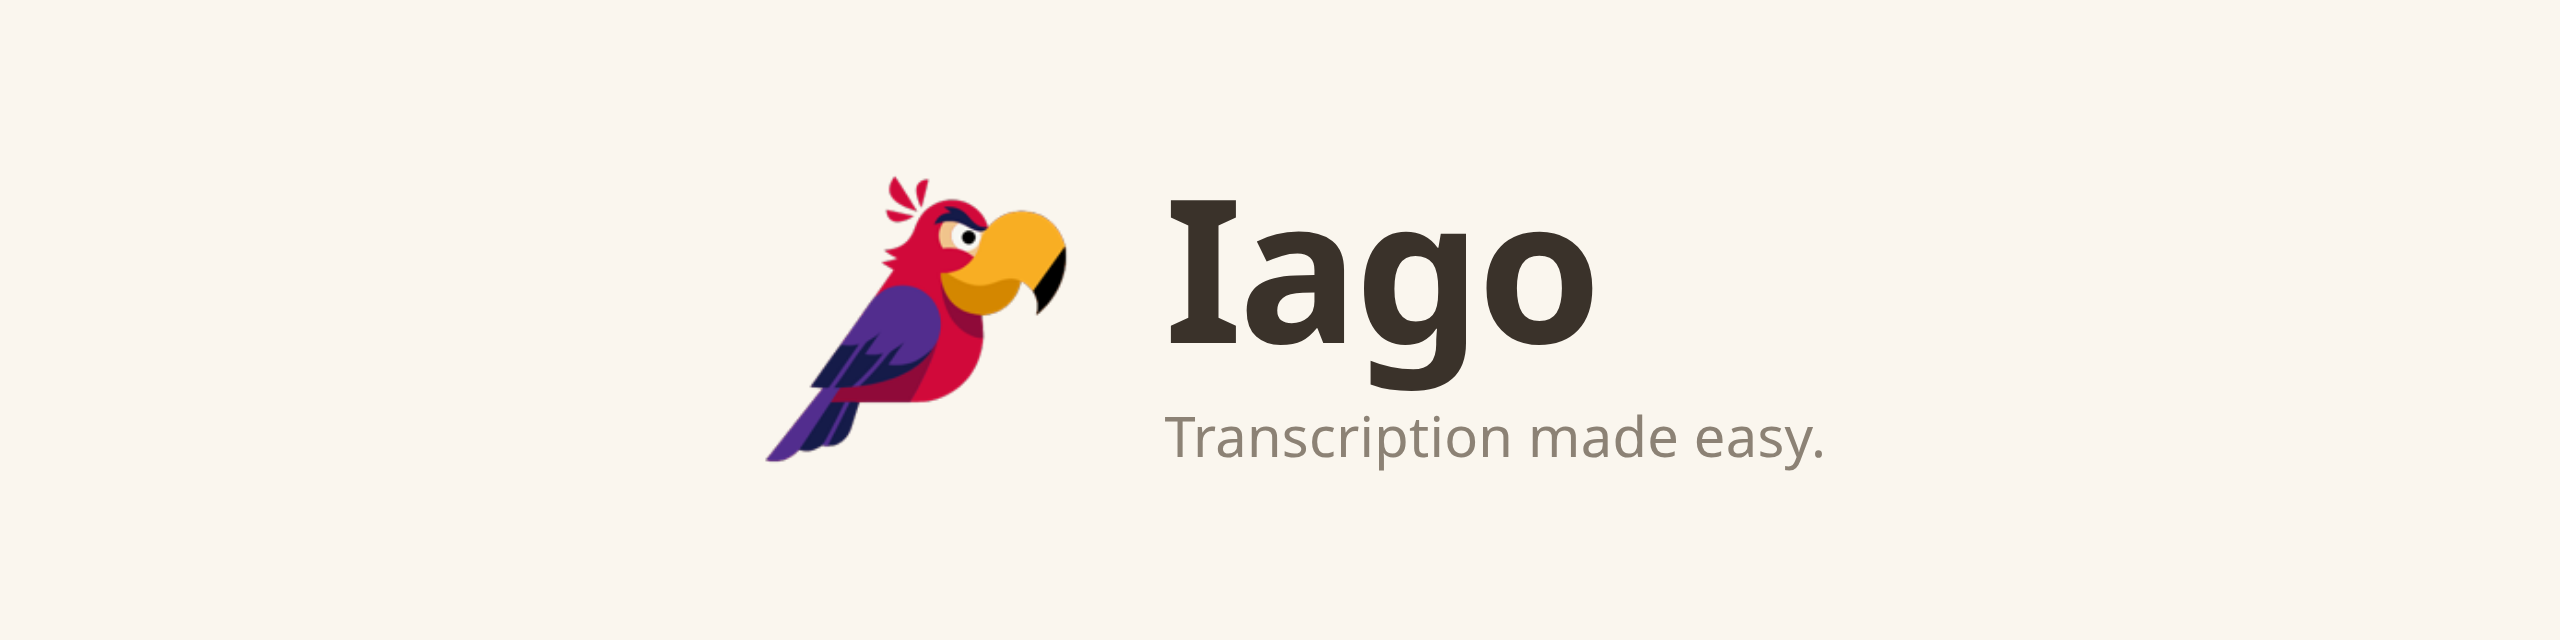
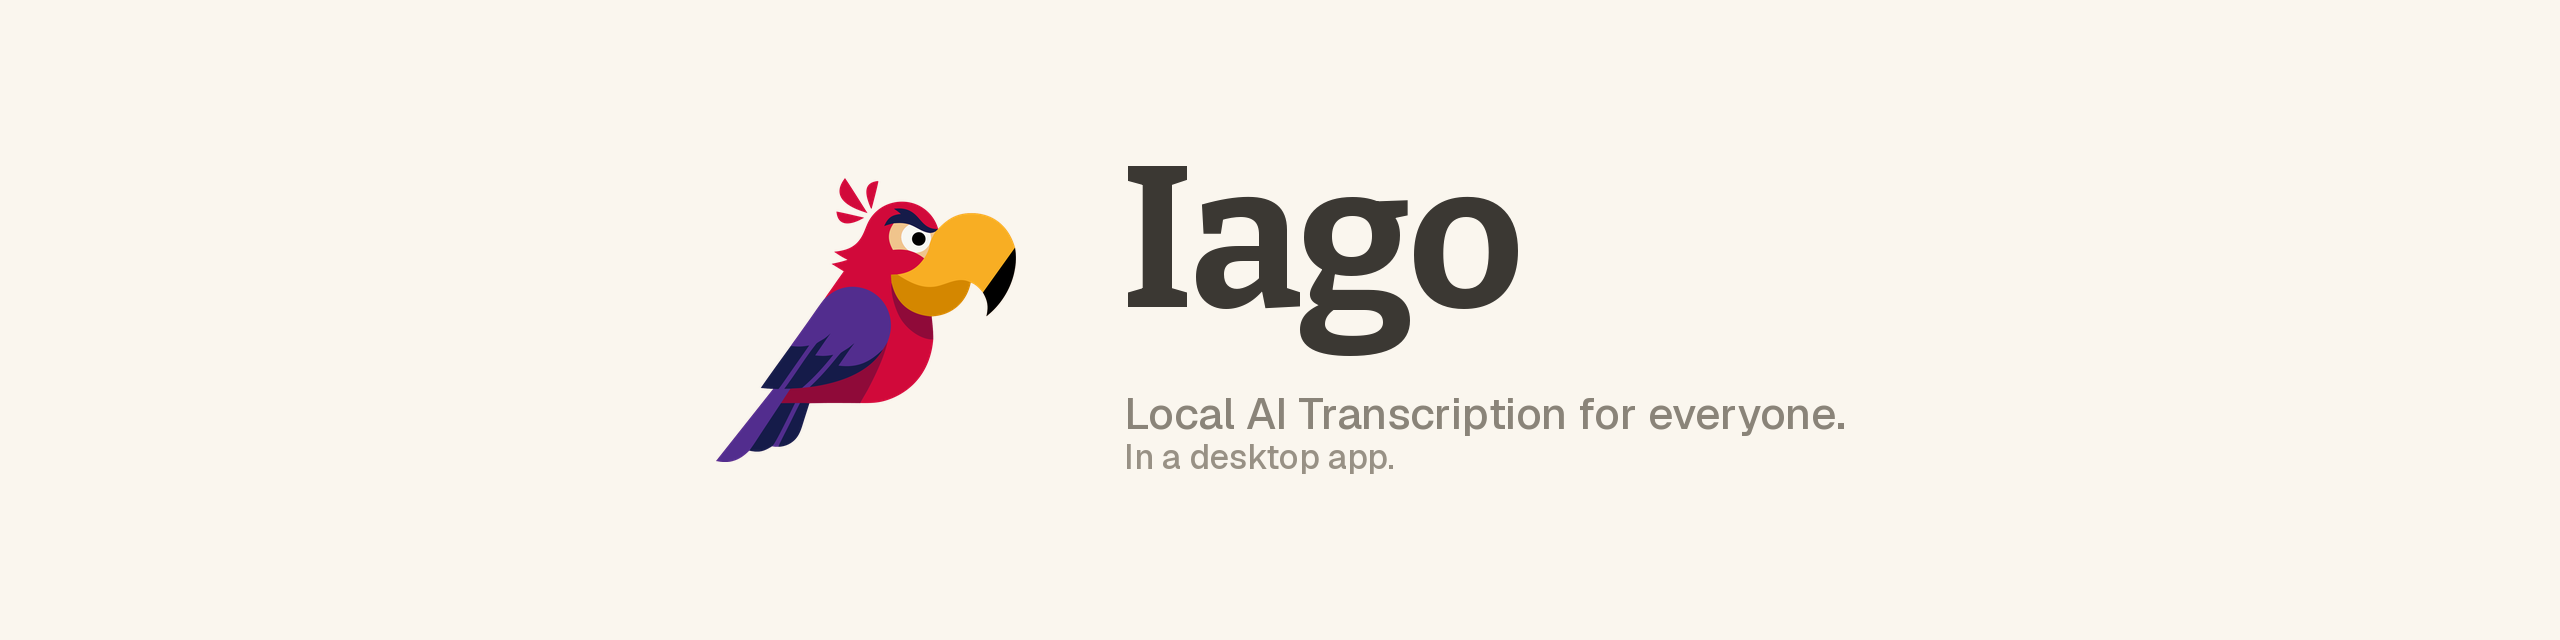
Refresh the README header and add a social preview

Changed region(s): [[0.2812, 0.25, 0.7188, 0.75]]

diff --git a/README.md b/README.md
@@ -1,5 +1,5 @@
 <div align="center">
-  <img src="docs/img/header.png" width="880" alt="Iago, transcription made easy">
+  <img src="docs/img/header.png" width="880" alt="Iago, local AI transcription for everyone">
 </div>
 
 <br>
